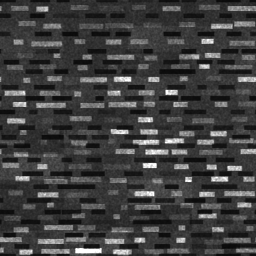
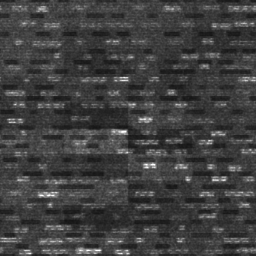
cabin777 py w11 fixes (plateau breaker, from A 8.1 / B 8.3 + gap analysis): second seat trim - aisle seats carry trim B (petal back + cushion, dash-weave ears; py_37302 foreground, san_12 26G vs 26F), also in the far LOD; back weave blocks woven from fine thread floats with tapered ends instead of f
Claude-Session: https://claude.ai/code/session_01FsG2Q5xC72sRzosGyzXNKL

diff --git a/cabin777/src/09b_py.js b/cabin777/src/09b_py.js
@@ -9,7 +9,9 @@ const PY = { back: 14 * DEG, hinge: [0.48, -0.09], sp: 0.5525 };
 const PYREAR = { c: '#5e636b', r: 0.42, l: LAYER.plastic };   // rear face of the shell + literature bucket (py_37304, san_26) [D]
 function pySeat(B, x0, lod, opts = {}) {
   const [hy, hz] = PY.hinge;
-  const F = SEATMAT.pyFabric;
+  // w11 (gap): ANA alternates two trims - A dash-weave back + cushion with petal ears, B petal back + cushion with dash ears;
+  // the aisle seats carry B (py_37302 foreground aisle seat, san_12 26G vs its neighbour 26F) [V]
+  const F = opts.trim ? SEATMAT.pyWing : SEATMAT.pyFabric, WG = opts.trim ? SEATMAT.pyWingB : SEATMAT.pyWing;
   const BH = M4.trs(x0, hy, hz, 0, PY.back);
   B.add(gLoft(cushionSecs(0.415, 0.50, 0.115, -0.06, { edge: 0.04, r: 0.035, crown: 0.012 }), lod ? 3 : 4), M4.trs(x0, 0.425, -0.30, 0, 3 * DEG), F);
   B.add(gRBox(0.415, 0.05, 0.48, 0.012, 1), M4.trs(x0, 0.335, -0.29), { c: '#3a3f4a', r: 0.5, l: LAYER.plastic });   // w10 (A): dark pan frame (py_37304, san_26)
@@ -57,8 +59,9 @@ function pySeat(B, x0, lod, opts = {}) {
     // in py_37301 / 37302 vs 0.38-0.45 with the pads in front); ~0.095 wide, 0.10 deep, 12 deg, tops ~1 cm under the fold [D]
     const WX = M4.mul(BH, M4.trs(s * 0.172, 0, -0.045, -s * 12 * DEG));   // pads bulge ~4 cm proud of the flap (py_37301)
     // w9 (A + B): short puffy ears with domed top and bottom ends, a gap above the bolsters (py_37301 / 37305) [D]
-    loftAt(B, [SEC(0.672, 0.05, 0.05, 0, 0.024), SEC(0.685, 0.095, 0.10, 0, 0.045), SEC(0.71, 0.11, 0.12, 0, 0.055), SEC(0.85, 0.11, 0.12, 0, 0.055),
-      SEC(0.88, 0.095, 0.10, 0, 0.045), SEC(0.898, 0.06, 0.065, 0, 0.03), SEC(0.905, 0.03, 0.03, 0, 0.014)], WX, SEATMAT.pyWing, lod ? 2 : 3);
+    // w11 (A): broader, flatter-fronted pillows (py_37305 left seat, san_14: ear wider than the bolster below, flat face) [D]
+    loftAt(B, [SEC(0.672, 0.055, 0.045, 0, 0.022), SEC(0.685, 0.11, 0.09, 0, 0.04), SEC(0.71, 0.125, 0.105, 0, 0.045), SEC(0.85, 0.125, 0.105, 0, 0.045),
+      SEC(0.88, 0.11, 0.09, 0, 0.04), SEC(0.898, 0.07, 0.06, 0, 0.028), SEC(0.905, 0.035, 0.028, 0, 0.013)], WX, WG, lod ? 2 : 3);
   }
   // navy leatherette flap over the headrest front + top, silver trim line low on the back shell (py_37303)
   // flap ~0.28 x 0.25, hanging a little below the wing pads (py_37301 seat C: 98 x 92 px on a 158 px headrest) [D]
@@ -69,7 +72,7 @@ function pySeat(B, x0, lod, opts = {}) {
   // wing rims, over-top piece lower and set back below the shell rim (A + B) [D]
   const FL = M4.mul(BH, M4.trs(0, 0.905, -0.0605, 0, 1.5 * DEG));   // w8: one sheet hung from the fold, foot ~4 mm forward (no seam)
   B.add(gRBox(0.29, 0.225, 0.005, 0.0025, 1), M4.mul(FL, M4.trs(0, -0.1125, 0)), SEATMAT.pyCover);   // w9 (A): 0.68-0.905, visible h/w ~0.95 (py_37301 / 37302)
-  B.add(gRBox(0.26, 0.008, 0.045, 0.004, 1), M4.mul(BH, M4.trs(0, 0.898, -0.046)), SEATMAT.pyCover);
+  // w11 (A + B): no over-top strip (from behind only the grey rim shows, py_37304 / san_14 / san_26)
   for (const s of [-1, 1]) B.add(gRBox(0.02, 0.2, 0.005, 0.0025, 1), M4.mul(BH, M4.trs(s * 0.152, 0.795, -0.066, -s * 25 * DEG)), SEATMAT.pyCover);
   if (!lod) {   // folded hem band ~22 mm with a tone-on-tone topstitch (py_37305)
     B.add(gBox(0.284, 0.014, 0.001), M4.mul(FL, M4.trs(0, -0.216, -0.0032)), { c: '#2a3560', r: 0.5, l: LAYER.leather });
@@ -108,14 +111,17 @@ function pySeat(B, x0, lod, opts = {}) {
     // w5 (A + B): moulded literature bucket right under the placards (san_20 / san_26, b_gf_a380): slim rim at the mouth,
     // the bucket bulging ~5 cm aft toward its rounded bottom, black mesh band across its lower front [D]
     const py0 = 0.40;
-    // w8 (A): thick smile-shaped lip (centre ~1.5 cm lower than the ends, san_20 / 26) with the mouth shadow right under it
-    B.add(gTube([-0.19, -0.1, 0, 0.1, 0.19].map((x) => M4.point(on(py0 + 0.185 - 0.015 * (1 - (x / 0.19) ** 2), 0.02, x), [0, 0, 0])), 0.012, 8), null, PYREAR);
-    B.add(gBox(0.35, 0.014, 0.01), on(py0 + 0.165, 0.02), { c: '#1e2024', r: 0.9 });
-    loftAt(B, [SEC(0.0, 0.30, 0.012, 0.006, 0.005), SEC(0.02, 0.36, 0.06, 0.03, 0.022), SEC(0.07, 0.38, 0.07, 0.035, 0.025),
-      SEC(0.14, 0.38, 0.045, 0.0225, 0.018), SEC(0.18, 0.37, 0.014, 0.007, 0.006)], M4.mul(BH, M4.trs(0, py0, zr(py0 + 0.09) + 0.005)), PYREAR, 3);
-    B.add(gBox(0.37, 0.062, 0.003), M4.mul(on(py0 + 0.04, 0.0655), M4.trs(0, 0, 0, 0, 16 * DEG)), { c: '#2a2d31', r: 0.9, l: LAYER.grille });   // mesh on the bucket bulge (w10, san_26)
-    B.add(gRBox(0.40, 0.22, 0.003, 0.02, 1), on(py0 + 0.09, 0.0105), { c: '#44484f', r: 0.5, l: LAYER.plastic });   // w6 (B): dark recess round the bucket (san_26)
-    for (const [sy, dz] of [[0.01, 0.058], [0.07, 0.075]]) B.add(gBox(0.38, 0.003, 0.003), on(py0 + sy, dz), { c: '#9a9ca0', r: 0.6 });   // stitched edges
+    // w11 (B, san_26 / b_san_20 at ~1100 px/m): a dark recess ~0.30 x 0.19 under the placards; in it an open tray pocket
+    // ~0.27 wide whose grey front rises at the sides (~0.145) and dips in a deep smile to ~0.08 at the centre, contents
+    // showing above it; curved black mesh over the lower ~4 cm of the bulge [D]
+    B.add(gRBox(0.31, 0.19, 0.003, 0.02, 1), on(py0 + 0.105, 0.0105), { c: '#3a3d43', r: 0.6, l: LAYER.plastic });
+    const BK = M4.mul(BH, M4.trs(0, py0, zr(py0 + 0.09) + 0.011));
+    // tray front lofted across x so its grey top edge follows the smile (sections = columns, w = front height) [D]
+    const rimY = (x) => 0.10 + 0.045 * ((x / 0.135) ** 2) ** 1.5;
+    B.add(gLoft([-0.135, -0.11, -0.07, 0, 0.07, 0.11, 0.135].map((x) => SEC(x, rimY(x), 0.045, 0.0225, 0.012, rimY(x) / 2)), 3), M4.mul(BK, M4.trs(0, 0, 0, 0, 0, Math.PI / 2)), PYREAR);
+    B.add(gTube([-0.133, -0.1, -0.05, 0, 0.05, 0.1, 0.133].map((x) => M4.point(BK, [x, rimY(x), 0.043])), 0.005, 6), null, PYREAR);   // smile rim
+    B.add(gLoft([SEC(0.003, 0.25, 0.03, 0.015, 0.012), SEC(0.012, 0.276, 0.049, 0.0245, 0.016), SEC(0.05, 0.276, 0.049, 0.0245, 0.016)], 3, [false, false]), BK,
+      { c: '#25282c', r: 0.9, l: LAYER.grille });   // mesh wrapped on the bulge (san_26)
   }
   if (!opts.noScreen) {
     // gooseneck reading light: leaves the shell side at headrest height, arcs down + forward to a brushed-aluminium
@@ -148,7 +154,7 @@ function pySeat(B, x0, lod, opts = {}) {
   }
   for (const s of [-1, 1]) B.add(gRBox(0.018, 0.17, 0.02, 0.006, 1), M4.trs(x0 + s * 0.03, fy + 0.085, fz - 0.01), SEATMAT.frame);   // w5: two vertical arms (san_20) [V]
   B.add(gCyl(0.024, 0.024, 0.03, 12), M4.trs(x0, fy, fz, 0, 0, Math.PI / 2), SEATMAT.frame);
-  if (!lod) for (const s of [-1, 1]) for (let k = -2; k <= 2; k++)                                     // pad ribs
+  if (!lod) for (const s of [-1, 1]) for (let k = -1; k <= 1; k++)                                     // pad ribs (w11: 3, under the pan)
     B.add(gBox(0.08, 0.003, 0.004), M4.trs(x0 + s * 0.065, fy + 0.02 * Math.cos(k * 0.35), fz + 0.02 * Math.sin(k * 0.35)), SEATMAT.hole);
   for (const s of [-1, 1]) {
     B.add(gRBox(0.05, 0.012, 0.035, 0.005, 1), M4.trs(x0 + 0.03 * s, 0.488, -0.26), SEATMAT.buckle);
@@ -159,7 +165,8 @@ function pyUnit(n, lod = false, opts = {}) {
   const B = new Builder();
   const sp = PY.sp;
   const xs = []; for (let k = 0; k < n; k++) xs.push((k - (n - 1) / 2) * sp);
-  xs.forEach((x) => pySeat(B, x, lod, opts));
+  const aisle = (k) => (n === 4 ? k === 0 || k === 3 : k !== (opts.win === 0 ? 0 : n - 1));   // trim B on the aisle seats (w11)
+  xs.forEach((x, k) => pySeat(B, x, lod, { ...opts, trim: aisle(k) }));
   const arms = []; for (let k = 0; k <= n; k++) arms.push((k - n / 2) * sp);
   arms.forEach((xa, k) => {
     const inner = k > 0 && k < n;
@@ -192,7 +199,7 @@ function pyUnit(n, lod = false, opts = {}) {
           B.add(gBox(0.003, 0.004, 0.36), M4.trs(fx, 0.45, -0.30), SEATMAT.black);
           B.add(gBox(0.004, 0.012, 0.02), M4.trs(fx, 0.45, -0.475), SEATMAT.pyTrim);
           // w9 (A): dark recessed side panel with the lit button strip and the tray-latch bar (py_37301) [D]
-          B.add(gRBox(0.003, 0.15, 0.26, 0.02, 1), M4.trs(fx, 0.53, -0.30), { c: '#3c4358', r: 0.5, l: LAYER.plastic });
+          B.add(gRBox(0.003, 0.15, 0.26, 0.02, 1), M4.trs(fx, 0.53, -0.30), { c: '#2c313d', r: 0.55, l: LAYER.plastic });   // w11 (A + B): ~0.6x pyArm
           B.add(gRBox(0.003, 0.11, 0.022, 0.006, 1), M4.trs(fx + s * 0.0015, 0.54, -0.455), SEATMAT.black);
           for (let k = 0; k < 4; k++) B.add(gBox(0.002, 0.008, 0.008), M4.trs(fx + s * 0.003, 0.505 + k * 0.022, -0.455), { c: '#6f8fd6', r: 0.4, e: 0.15 });
         }
@@ -274,12 +281,12 @@ function pyUnitFar(n, opts = {}) {
   const B = new Builder();
   const sp = PY.sp;
   for (let k = 0; k < n; k++) {
-    const x0 = (k - (n - 1) / 2) * sp;
-    B.add(gRBox(0.48, 0.115, 0.50, 0.045, 1), M4.trs(x0, 0.425, -0.30, 0, 3 * DEG), SEATMAT.pyFabric);
+    const x0 = (k - (n - 1) / 2) * sp, FF = (n === 4 ? k === 0 || k === 3 : k !== (opts.win === 0 ? 0 : n - 1)) ? SEATMAT.pyWing : SEATMAT.pyFabric;
+    B.add(gRBox(0.48, 0.115, 0.50, 0.045, 1), M4.trs(x0, 0.425, -0.30, 0, 3 * DEG), FF);
     const BH = M4.trs(x0, PY.hinge[0], PY.hinge[1], 0, PY.back);
-    B.add(gRBox(0.48, 0.68, 0.12, 0.04, 1), M4.mul(BH, M4.trs(0, 0.34, -0.02)), SEATMAT.pyFabric);
+    B.add(gRBox(0.48, 0.68, 0.12, 0.04, 1), M4.mul(BH, M4.trs(0, 0.34, -0.02)), FF);
     B.add(gRBox(0.505, 0.88, 0.05, 0.015, 1), M4.mul(BH, M4.trs(0, 0.40, 0.095)), SEATMAT.pyShell);
-    B.add(gRBox(0.39, 0.21, 0.09, 0.035, 1), M4.mul(BH, M4.trs(0, 0.80, -0.012)), SEATMAT.pyFabric);
+    B.add(gRBox(0.39, 0.21, 0.09, 0.035, 1), M4.mul(BH, M4.trs(0, 0.80, -0.012)), FF);
     B.add(gBox(0.30, 0.17, 0.01), M4.mul(BH, M4.trs(0, 0.80, -0.062)), SEATMAT.pyCover);
     B.add(gQuad(0.345, 0.194), M4.mul(BH, M4.trs(0, 0.755, 0.121)), SEATMAT.screen, atlasUV('screen'));
   }

diff --git a/cabin777/src/09_seats.js b/cabin777/src/09_seats.js
@@ -62,10 +62,11 @@ const SEATMAT = {
   // ANA official look (user decision): wall-balanced consensus of py_37301-05 (wall = #e8e8e8): back #7f8490, wing #848899,
   // flap #3c4770 (B/R ~1.8 sRGB), shell #75808c, console #6c7684; all blue-grey (B > G >= R) [D]
   pyFabric: { c: photoBase('#7e8593', 'py_back'), r: 0.9, l: LAYER.pyFleck },   // w6: steel grey-blue, saturation ~0.2 (py_37301 / 37303 / 37305 0.15-0.21, A + B) [D]
-  pyCover: { c: '#343f60', r: 0.45, l: LAYER.leather },   // navy satin leatherette, fine pebble grain; #34406e rendered royal blue (ACES) vs py_37302 #2f3c6c
+  pyCover: { c: '#343f60', r: 0.45, l: LAYER.plastic },   // navy satin leatherette, fine pebble grain; #34406e rendered royal blue (ACES) vs py_37302 #2f3c6c; w11 (A + B): leather grain 2-4x the photo -> plastic (fine, faint)
   pyWing: { c: photoBase('#6e7484', 'py_confetti'), r: 0.9, l: LAYER.pyConfetti },   // w6: wing / back ~0.9-1.0 (py_37301 / 37305, A + B) [D]
+  pyWingB: { c: photoBase('#626876', 'py_back'), r: 0.9, l: LAYER.pyFleck },   // w11 (gap): trim B ears in the dash weave (py_37305 right seat, san_12) [D]
   pyShell: { c: '#6a7079', r: 0.42, l: LAYER.plastic },   // w6: darker, shroud py_37303 #4b525a (A + B) [D]
-  pyArm: { c: '#4f5a76', r: 0.45, l: LAYER.plastic },   // w6: console / back ~0.5 (py_37301 #505d7f, A + B) [D]
+  pyArm: { c: '#525b72', r: 0.45, l: LAYER.plastic },   // w6: console / back ~0.5 (py_37301 #505d7f, A + B); w11 (B): less blue, py_37303 / 37306 slate [D]
   pyArmPad: { c: '#8a919c', r: 0.4, l: LAYER.plastic },   // ANA generation: light blue-grey console lid with a groove (py_37303 / 37301)
   pyBin: { c: '#b8bcc0', r: 0.3, m: 0.85, l: LAYER.brushed },
   pyBay: { c: '#4a4c50', r: 0.6, l: LAYER.plastic },

diff --git a/cabin777/test/make_swatches.py b/cabin777/test/make_swatches.py
@@ -27,7 +27,8 @@ SW = {
     # white flakes on the charcoal wing of the left seat, square contiguous crop (the old 88 x 122 box was stretched);
     # wing ~0.10 m = 130 px -> 90 px = 0.07 m [D]. Also the Y headrest wings' confetti (y_47306 middle seat, 45 px at
     # 611 px/m = 0.074 m) [D] - both are MONO so the material colour sets charcoal / cobalt
-    'py_confetti': ('py_37305', (238, 140, 328, 230), 0.07),
+    # w11: 0.09 m (petals ~5-11 mm, ~1 cm on the trim-B backs in py_37302 / san_12) [D]
+    'py_confetti': ('py_37305', (238, 140, 328, 230), 0.09),
     # c_27302 seat back 0.64 m ~ 330 px -> 126 px = 0.24 m, but that is a rendering that coarsens the weave; the real
     # in-cabin photos (c_27315, omaat_room_13) read as a fine uniform weave -> tile shrunk to 0.14 (2-3 mm dots) [A]
     'j_tweed':     ('c_27302', (112, 172, 238, 298), 0.14),
@@ -108,19 +109,33 @@ def synth_py_back(ratio, seed=7):
             ln = np.clip(rng.normal(19, 7), 8, 32)          # w8 (B): more varied lengths
             x0 = c * cw + (cw - ln) / 2 + (cw / 4) * (r % 2) + rng.uniform(-6, 6)
             u = (x[0] - x0) % S
-            seg = np.clip(np.minimum(u, ln - u) / 1.5, 0, 1) * (u < ln)
-            band = np.clip((3.0 - np.abs(((y[:, 0] - yc + S / 2) % S) - S / 2)) / 1.0, 0, 1)   # w7: fat cells ~6 px = 3.8 mm
+            seg = np.clip(np.minimum(u, ln - u) / 3.0, 0, 1) * (u < ln)   # w11 (A + B): tapered ends (hard bricks)
+            band = np.clip((3.6 - np.abs(((y[:, 0] - yc + S / 2) % S) - S / 2)) / 2.0, 0, 1)   # w11: ~4.5 mm cells, soft edges
             lite = np.maximum(lite, band[:, None] * seg[None, :] * np.clip(rng.normal(1, 0.25), 0.5, 1.5) * dim[r, c])
             # w6 (A + B): the navy-slate dash set (py_37301 / 37305 dark-dash cover 7-32 %); w7: on its own band between
             # the light rows so the two sets interlock into a mosaic (A + B)
             band = np.clip((2.8 - np.abs(((y[:, 0] - yr[r] - hr[r] / 2 + S / 2) % S) - S / 2)) / 1.0, 0, 1)
             ln = np.clip(rng.normal(19, 4), 10, 28)
             u = (x[0] - (x0 + cw / 2 + rng.uniform(-6, 6))) % S
-            seg = np.clip(np.minimum(u, ln - u) / 1.5, 0, 1) * (u < ln)
+            seg = np.clip(np.minimum(u, ln - u) / 3.0, 0, 1) * (u < ln)
             dark = np.maximum(dark, band[:, None] * seg[None, :] * rng.uniform(0.7, 1.0) * ddim[r, c])
     blob = _blur_wrap(rng.normal(0, 1, (S, S)), 12); blob /= blob.std()
     lite *= np.exp(0.2 * blob - 0.02)               # w8 (B): mottled light patches (py_37305); w9 (A): softer
-    out = (1 + 1.9 * lite) * (1 - 0.76 * dark)     # w7: light ~2.9x, dark ~0.3x the ground (local skew ~0, A + B)
+    # w11 (A + B): each block is woven from fine horizontal thread dashes (py_37305 close-up: 3-4 threads per block,
+    # ~1.9 mm pitch, 3-6 mm floats with 1 mm breaks), not a flat rectangle; the block mean is kept [D]
+    thr = np.zeros((S, S)); yl = 0.0
+    while yl < S:
+        pr = np.clip((1.0 - np.abs(((y[:, 0] - yl + S / 2) % S) - S / 2)) / 0.8, 0, 1)
+        xs, ln = rng.uniform(0, 8), np.zeros(S)
+        while xs < S + 12:
+            fl = rng.uniform(5, 10); u = (x[0] - xs) % S
+            ln = np.maximum(ln, np.clip(np.minimum(u, fl - u) / 1.5, 0, 1) * (u < fl) * rng.uniform(0.7, 1.0))
+            xs += fl + rng.uniform(1.2, 2.2)
+        thr = np.maximum(thr, pr[:, None] * ln[None, :]); yl += rng.uniform(2.7, 3.3)
+    thr = _blur_wrap(thr, 0.45)
+    lite *= 0.45 + 0.85 * thr; dark *= 0.7 + 0.4 * thr
+    out = (1 + 1.4 * lite) * (1 - 0.6 * dark)     # w7: light ~2.9x, dark ~0.3x the ground; w11 (A + gap): calmer, bright / median ~1.3 (py_37301 1.24)
+    out *= 0.88 + 0.24 * thr                       # w11: the ground is woven too (threads read between the blocks, py_37305)
     # brick patches on a 2-col x 2-row lattice (block std/mean ~0.15, py_37305), crisp edges softened 0.5 px
     blk = np.exp(rng.normal(0, 0.15, (rows // 2, cols // 2)))
     blk = _blur_wrap(blk[(np.arange(S) // (2 * ph)).astype(int)][:, (np.arange(S) // (2 * cw)).astype(int)], 0.5)
@@ -139,34 +154,29 @@ def synth_py_confetti(ratio, seed=11):
     rng = np.random.default_rng(seed)
     out = np.ones((S, S))
     yy, xx = np.mgrid[0:S, 0:S] + 0.5
-    # w7 (A): the wing ground carries the back's dark dash weave under the petals (py_37305; local p5 ~-35 %), rows
-    # ~7.8 mm (9 per 0.07 m tile), 4 dashes per row
-    for r in range(9):
-        for c in range(4):
-            yc = (r + 0.5) * S / 9 + rng.uniform(-1, 1); ln = np.clip(rng.normal(40, 10), 20, 60)
-            u = (xx - c * S / 4 - (S / 8) * (r % 2) - rng.uniform(-10, 10)) % S
-            m = np.clip((5 - np.abs((yy - yc + S / 2) % S - S / 2)) / 1.5, 0, 1) * np.clip(np.minimum(u, ln - u) / 2, 0, 1) * (u < ln)
-            out *= 1 - 0.75 * rng.uniform(0.6, 1.0) * m   # w8/w9 (B): deeper weave (dark share 0.15-0.31 in py_37302 / 37305)
+    # w11 (A + gap): plain charcoal pebble ground with a fine mottle, no dash rows under the petals (py_37305 left ear,
+    # san_12 trim-B back) [D]
+    mo = _blur_wrap(rng.normal(0, 1, (S, S)), 2.5); out *= np.exp(0.12 * mo / mo.std())
     pts = []
-    while len(pts) < 20:                          # w5 (A + B): fewer, more varied chips (polka dots before)
+    while len(pts) < 32:                          # w5 (A + B): varied chips; w11 (gap): 32 smaller ones (san_12 / py_37305)
         p = rng.uniform(0, S, 2)
-        if all(min(abs(p[0] - q[0]), S - abs(p[0] - q[0])) ** 2 + min(abs(p[1] - q[1]), S - abs(p[1] - q[1])) ** 2 > 32 ** 2 for q in pts): pts.append(p)
+        if all(min(abs(p[0] - q[0]), S - abs(p[0] - q[0])) ** 2 + min(abs(p[1] - q[1]), S - abs(p[1] - q[1])) ** 2 > 24 ** 2 for q in pts): pts.append(p)
     for cy, cx in pts:
         dy = (yy - cy + S / 2) % S - S / 2; dx = (xx - cx + S / 2) % S - S / 2
-        a = rng.uniform(0, 2 * np.pi); e = rng.uniform(1.2, 2.4); req = np.clip(rng.normal(7, 2.5), 3.5, 10)
+        a = rng.uniform(0, 2 * np.pi); e = rng.uniform(1.2, 2.4); req = np.clip(rng.normal(5.5, 2), 3, 9)
         u = dx * np.cos(a) + dy * np.sin(a); v = -dx * np.sin(a) + dy * np.cos(a)
         th = np.arctan2(v * e, u); rr = np.hypot(u / np.sqrt(e), v * np.sqrt(e))
         k = rng.integers(5, 8); ph0 = rng.uniform(0, 6)
         # polygonal chip: facets from a k-gon, pointed tip at th=0, shallow notch at th=pi (sakura petal)
         poly = (np.cos(np.pi / k) / np.cos((th + ph0) % (2 * np.pi / k) - np.pi / k)) ** 1.0   # sharp facets
         prof = req * poly * (1 + 0.18 * np.cos(th)) * (1 - 0.22 * np.exp(-((np.abs(th) - np.pi) / 0.25) ** 2))
-        out += 6.5 * np.clip(rng.normal(1, 0.15), 0.7, 1.3) * np.clip((prof - rr) / 1.0, 0, 1)
+        out += 6.5 * np.clip(rng.normal(1, 0.15), 0.7, 1.3) * np.clip((prof - rr) / 0.6, 0, 1)   # w11: crisper corners
     for cy, cx in rng.uniform(0, S, (60, 2)):
         rr = np.hypot((yy - cy + S / 2) % S - S / 2, (xx - cx + S / 2) % S - S / 2)
         out += rng.uniform(0.3, 0.6) * np.clip((rng.uniform(2, 5) - rr) / 1.0, 0, 1)
     for cy, cx in rng.uniform(0, S, (30, 2)):      # w5: mid-size specks 3-6 mm (py_37305 petals 3-12 mm)
         rr = np.hypot((yy - cy + S / 2) % S - S / 2, (xx - cx + S / 2) % S - S / 2)
-        out += rng.uniform(1.5, 2.5) * np.clip((rng.uniform(2, 3.5) - rr) / 1.0, 0, 1)
+        out += rng.uniform(0.6, 1.0) * np.clip((rng.uniform(2, 3.5) - rr) / 1.0, 0, 1)   # w11: faint (read as snow on the trim-B backs)
     out *= np.exp(0.08 * _blur_wrap(rng.normal(0, 1, (S, S)), 0.8) / 0.25)
     return np.repeat(out[:, :, None], 3, 2)
 

diff --git a/cabin777/review/qa/py_gap_w11.md b/cabin777/review/qa/py_gap_w11.md
@@ -1,0 +1,155 @@
+# PY gap analysis, w11 (commit 1432360; w10 A 8.2 / B 8.2, target 8.5+ from both)
+
+Question: which 3-5 changes would most raise PY toward 8.5? Constraint: no net triangle growth.
+The scratch evidence (crops, montages, scripts) is in
+`/tmp/claude-0/-home-user-Calc/c6e420be-be6c-56c3-9e6e-efdc259c79f1/scratchpad/w11/gap/`.
+All measurements are PIL/numpy on the 930x575 official photos and the w11 renders. Stats are sRGB L = mean(R,G,B).
+S = (max-min)/max. "dark" and "light" are the mean colours of the p10 and p90 pixels.
+
+## Verdict on the caller's first impression
+
+- **Fabric reads as white salt-and-pepper: confirmed.**
+  - Studio p8 back: p90/p50 = 1.38, against 1.24 for py_37301 back.
+  - The light dashes are near-neutral: S 0.03-0.11 in the render, against 0.12-0.22 in the photos (pale blue `#cedcf1`, not white).
+  - q14 near back: p10/p50 = 0.68, against 0.77 for py_37305 R back close-up. Our darks are too deep and our lights too bright, so it reads as static.
+  - Mechanism, simulated through the shader's per-channel ACES (`sim.py`, `proto.py`): the tile's light dashes reach 1.9-4.0x the mean (p90 1.90, clipped at ENC 4). The base is lifted 2x by `photoBase`. ACES then pushes the dashes into the shoulder, where they lose chroma. At studio exposure the light-dash S is 0.09, and in the brighter cushion 0.04.
+  - The photo cloth is a calmer **block mosaic**: short, chunky cells (h/v correlation aspect 1.3-1.5 on py_37305, against 2.0 rendered) grouped into light and dark 2x2 patches.
+- **Wing confetti reads as big white dots: confirmed, with a twist.** The luminance spread now matches: p4 wing p10/50/90 76/94/130, against py_37305 L ear 67/86/130. The problems are **shape and ground**:
+  - Our petals are soft, evenly spaced ovals.
+  - They sit on dark *dash rows* (`synth_py_confetti` w7 weave). The photo ear ground is a fine boucle mottle with no rows.
+  - The photo has more and smaller chips, sharp and angular.
+- **Console bluer than the photo: mostly refuted.**
+  - py_37301 console face is `#425679` (S 0.45), side strip S 0.37 and inner side S 0.32. The render's p8 face `#414b65` (S 0.35) is inside that range.
+  - py_37303 and py_37306 do read greyer (S 0.14-0.22). Our hue is slightly violet: H 224-227 against 215-222.
+  - At most a one-line hue nudge. It is not a ranked item.
+- **Bigger finding the caller did not list: ANA uses two seat colourways, and we model only one.** See item 1.
+
+## Ranked changes
+
+### 1. Add colourway B: petal back and cushion, dash ears. Expected +0.2-0.3, zero triangles.
+
+**Evidence.** Montage: `gap/ev_colourways.png`.
+
+- **Official photos:**
+  - py_37302 is the q13 reference. Its foreground seat has the **petal (confetti) cloth over the whole back**, and its **ears are the dash cloth**. That is the inverse of py_37301.
+  - py_37305 shows both on adjacent seats. The left ear is petal (colourway A). The right ear is dash: dark `#18191e` with light `#c3c2c9` dashes, p10/p50 0.36 (colourway B). Crop: `gap/z305.png`.
+- **Real in-flight photos:**
+  - san_12 (SANspotter, NH 777-300ER PY): the passenger's own seat has a petal back and a petal cushion on a grey ground. The neighbouring seat ahead shows the dash back.
+  - san_11: the front-left seat has a petal back and cushion, and a dash skirt on the leg rest.
+- So questions_py.md items 4 and 9 ("is row 25 dressed differently?") are answered by evidence. It is not a row-25 special: seats alternate between two trims.
+- **Render:** every seat in q13 and q14 is colourway A, so q13 cannot look like py_37302. The 37302 foreground is the single biggest fabric area in that pair.
+- The raters' lowest fabric scores trace to this mismatch:
+  - B: fabrics 7.5.
+  - A: "37301 back is a mosaic, 37302 back is sparse cream flecks".
+
+**Cheapest fix.** Material swap only, so no geometry growth.
+
+- In `09b_py.js`, at the top, add `Object.assign(SEATMAT, {...})`:
+  - `pyFabricB: { c: photoBase('#7e8593', 'py_confetti'), r: 0.9, l: LAYER.pyConfetti }`: back and cushion. Same mean as pyFabric, so the tone structure is unchanged.
+  - `pyWingB: { c: photoBase('#626876', 'py_back'), r: 0.9, l: LAYER.pyFleck }`: dash ears on a slightly darker ground (py_37305 R ear mean `#6a6a72`).
+- `pySeat(B, x0, lod, opts)`:
+  - Take `opts.cw` (0 = A, 1 = B).
+  - Set `const F = opts.cw ? SEATMAT.pyFabricB : SEATMAT.pyFabric;` and `const W = opts.cw ? SEATMAT.pyWingB : SEATMAT.pyWing;`.
+  - Use `W` in the ear loft (line 61), and `F` for the cushion, back, bolsters and headrest loft (it already does for all but the ears).
+  - Keep the leg-rest skirt on the dash cloth in both colourways (san_11).
+- `pyUnit`:
+  - Replace `xs.forEach((x) => pySeat(B, x, lod, opts))` with `xs.forEach((x, k) => pySeat(B, x, lod, { ...opts, cw: (k + (n === 4 && k > 1 ? 1 : 0)) % 2 }))`. That gives A|B pairs and A,B,B,A quads.
+  - Do the same in `pyUnitFar`: cushion, back and headrest box use `pyFabricB` for the B seats.
+- Instancing repeats the pair, so a 2-seat unit always reads A|B. That still breaks the uniform look and matches py_37305 and san_12, which show neighbours that differ.
+
+### 2. Retune the dash cloth into a calm block mosaic with chroma. Expected +0.15-0.2, zero triangles.
+
+**Evidence.**
+
+| Patch | p10/p50 | p90/p50 | S | Light-dash S | Light-dash colour | Source |
+|---|---|---|---|---|---|---|
+| Photo py_37301 back | 0.74 | 1.24 | 0.21 | 0.15 | `#cedcf1` | |
+| Photo py_37302 near back | | | 0.36 | 0.22 | | |
+| Photo py_37305 R close-up | 0.77 | 1.29 | | | | |
+| Render p8 back | 0.74 | 1.38 | 0.21 | 0.14 | | |
+| Render p8 cushion | | | 0.09 | 0.03 | `#e2e5ea` (white) | |
+| Render q13 near back | | | 0.17-0.18 | 0.11 | | |
+| Render q14 near back | 0.68 | 1.30 | | | | high-pass SD 0.26 vs 0.17 (py_37305) |
+| Tile as is | 0.54 | 1.48 | 0.18 | 0.09 | | `proto.py`, studio exposure |
+| Tile proposed | 0.75 | 1.32 | 0.26 | 0.16 | | `proto.py`, same exposure; photo is 0.74 / 1.24 |
+
+- Side-by-side (current left, proposed right): `gap/tile_proto.png`.
+- Close-up crops: `gap/fab_side.png` (py_37305 / q14 / py_37302 / q13) and `gap/ph301_back.png` vs `gap/r_back.png`.
+
+**Cheapest fix.** All in `test/make_swatches.py synth_py_back`, then re-run `python3 test/make_swatches.py`:
+
+- Dash length `np.clip(rng.normal(19, 7), 8, 32)` -> `np.clip(rng.normal(14, 4), 8, 22)` (chunkier cells).
+- Light band half-height `(3.0 - np.abs` -> `(3.6 - np.abs`.
+- `out = (1 + 1.9 * lite) * (1 - 0.76 * dark)` -> `out = (1 + 1.15 * lite) * (1 - 0.5 * dark)`. This removes the near-black and white extremes.
+- Brick-patch lattice `rng.normal(0, 0.15, ...)` -> `rng.normal(0, 0.24, ...)`. This makes the 2x2 light and dark mosaic blocks read, as in py_37301 and 37305.
+- `ENC['py_back']` 4 -> 3, and `PHOTO_ENC.py_back` 4 -> 3 in `src/03_tex.js` (shared, one line). The tile now peaks at about 2.5x, so the base needs less lift and loses less chroma under ACES.
+- `SEATMAT.pyFabric` `#7e8593` (S 0.15) -> `#7a849b` (S 0.21) in `09_seats.js` (shared, one line). This answers rater A's "35 % less saturated".
+- Optional: pyFabric `r` 0.9 -> 0.8 for the soft sheen on the bolster crowns. py_37301 back lf (low-frequency SD) is 10.5 against 7.0 rendered.
+- Optional: `LAYER_PARAMS[17]` normal 0.3 -> 0.2 (calmer up close in q13b and q14).
+
+Item 1 makes this cloth the ear cloth of colourway B as well, so the retune pays twice.
+
+### 3. Petal (confetti) tile: boucle ground and more, smaller, sharper chips. Expected +0.1 (more once item 1 puts it on whole backs).
+
+**Evidence.** Montage `gap/wing_cmp.png`: py_37305 L ear, py_37301 ear, p4, q14, q13.
+
+- Photo petals are crisp angular chips. There are about 1.5x as many, with many small 2-4 mm ones, on a fine dark boucle mottle with **no dash rows**. The same holds for the B backs in py_37302 and san_12.
+- Ours are soft ovals on visible dark horizontal dash rows. At q13 and q14 distance the rows read as stripes and the ovals as polka dots ("big white dots").
+- Contrast already matches (see the verdict above), so do not raise the gain.
+
+**Cheapest fix.** In `make_swatches.py synth_py_confetti`:
+
+- Delete the 9x4 dark-dash-row loop (the `for r in range(9)` block).
+- Replace it with a boucle mottle: `out *= np.exp(0.18 * _blur_wrap(rng.normal(0, 1, (S, S)), 1.2) / 0.2)` plus about 25 dark specks at x0.6.
+- Petal count 20 -> 32, with blue-noise spacing 32 -> 24 px.
+- `req = np.clip(rng.normal(5.5, 2.0), 2.5, 8.5)` (smaller on average, more small ones).
+- Edge softness `/ 1.0` -> `/ 0.6`, so the facets survive the mip.
+- Keep the petal amplitude 6.5 and ENC 6.
+
+### 4. Ear silhouette and flap finish: a domed bean, not a flat-topped block, and smooth satin navy. Expected +0.1, zero triangles.
+
+**Evidence.**
+
+- **Ear shape:**
+  - py_37301, 37302 and 37305 ears are round beans. The top curves continuously into the flap fold, and shading runs from a lit crown to dark edges. Photo ear lf is 25-34 (py_37302 25.2, py_37301 33.6).
+  - Ours have a near-flat top cap (sections 0.85 -> 0.88 -> 0.898 -> 0.905 collapse in the last 2.5 cm) and are flat-lit. q13 ear lf is 5.8.
+  - Crops: q13 near seat in `gap/ev_colourways.png`, and `gap/wing_cmp.png`.
+- **Flap:**
+  - The flap's grain gradient is 5.6 (q13, p8), against 1.2-3.7 in py_37301 and 37302 (rater A: "slightly too grainy").
+  - The q13 flap is `#38456e` (S 0.49), against py_37302 `#293769` (S 0.61).
+
+**Cheapest fix.**
+
+- `09b_py.js` ear loft (line 61): keep the 7 sections and redistribute them as `SEC(0.672,0.05,0.05,0,0.024), SEC(0.69,0.10,0.105,0,0.048), SEC(0.72,0.11,0.12,0,0.055), SEC(0.80,0.11,0.12,0,0.055), SEC(0.855,0.10,0.105,0,0.05), SEC(0.885,0.075,0.08,0,0.036), SEC(0.905,0.03,0.03,0,0.014)`. That gives a long dome over the top 10 cm instead of 5 cm.
+- `SEATMAT.pyCover`: `l: LAYER.leather` -> `l: LAYER.plastic` (albedo 0.04 and normal 0.10, against 0.14 and 0.32), and colour `#343f60` -> `#2e3a66` (closer to py_37302 navy). This is shared `09_seats.js`, one line. The hem material on line 75 can stay.
+
+### 5. From behind, hide the headrest top behind the shell rim. Expected +0.05-0.1 (q13b), saves triangles.
+
+**Evidence.**
+
+- In q13b about a third of the frame is the near seat's fabric top: a navy over-top strip and petal domes above the grey shell.
+- py_37304 and san_26 (seated camera) show only the grey shell arch. Rater B flagged this in w9 and w10 (low, "not fixed").
+- Geometry:
+  - The shell top sections (`ds` y 0.925-0.958, d 0.07-0.035) centre at z ≈ 0.08, so their front face is at about +0.045.
+  - The headrest top (`SEC(0.91, 0.31, 0.05, -0.002)`) ends at about +0.023.
+  - That leaves a 2 cm open trough you look down into.
+
+**Cheapest fix.**
+
+- Delete the navy over-top `gRBox(0.26, 0.008, 0.045 ...)` at `09b_py.js:72`. This frees triangles for anything above.
+- Deepen the shell's top sections forward:
+  - `ds` entries `[0.905, 0.085, 0.48]`, `[0.925, 0.07, 0.475]`, `[0.938, 0.062, 0.455]` and `[0.95, 0.05, 0.43]` -> d `0.11 / 0.10 / 0.085 / 0.065`.
+  - The rim then closes over the headrest top (front face about +0.03 to +0.02).
+- Check in the studio from the front that the rim does not show as a grey bar above the flap. py_37301's near seat shows only a thin grey edge behind the top.
+
+## Not ranked
+
+- **Console hue:** optional `pyArm` `#4f5a76` -> `#505b72` (H 224 -> 220). py_37301 is S 0.32-0.45; py_37303 and py_37306 are 0.14-0.22.
+- **Literature net:** rated 7.5-7.6 by both raters, but it is a low-visibility rear detail, and a loft that follows the bucket needs more triangles. Do it only with triangles freed by item 5.
+- **Gooseneck:** fixed after the w10 rating in 1432360. In p8 and q14 the heads hang near-vertical and apart.
+
+## Expected outcome
+
+- Items 1 and 2 address the two lowest scored details that remain (B fabrics 7.5, A fabric saturation).
+- Item 1 also makes q13 match its own reference photo for the first time.
+- With items 1-4: about 8.5-8.7 from both raters. Item 5 is insurance against B's repeat low issue.
